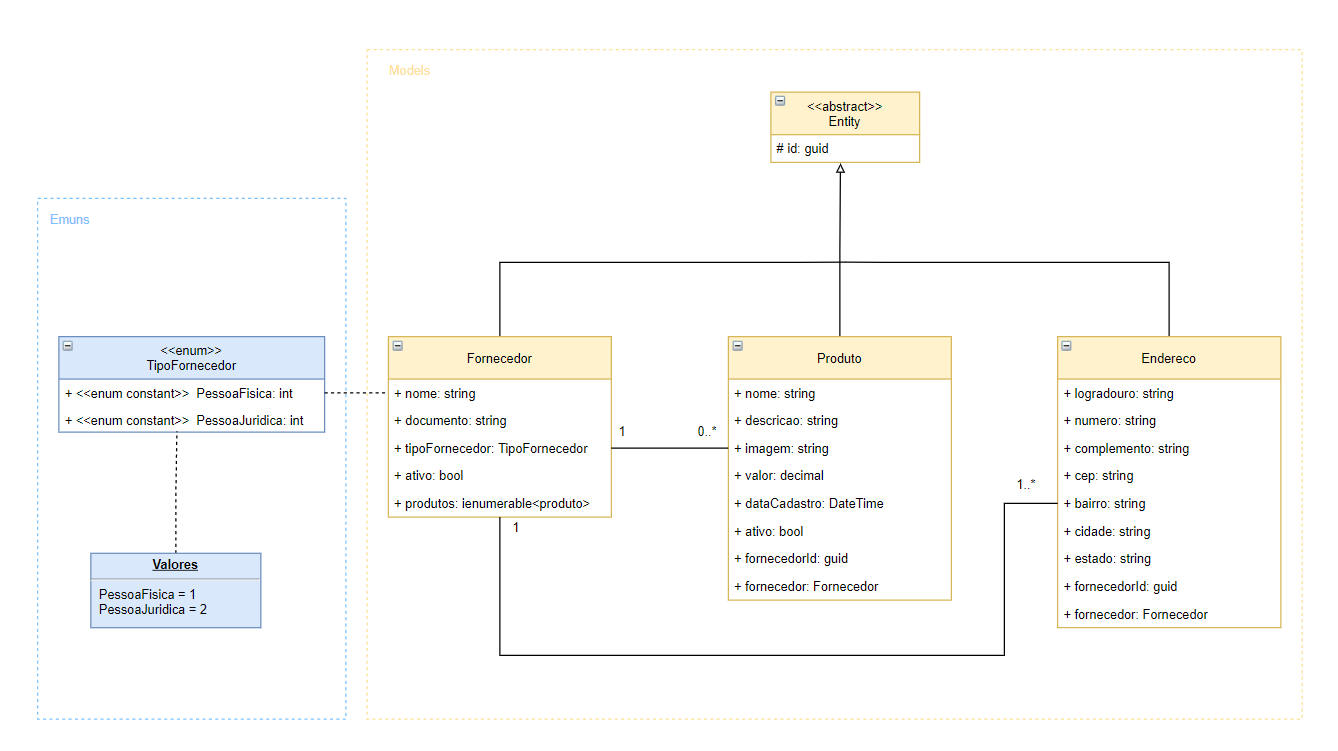
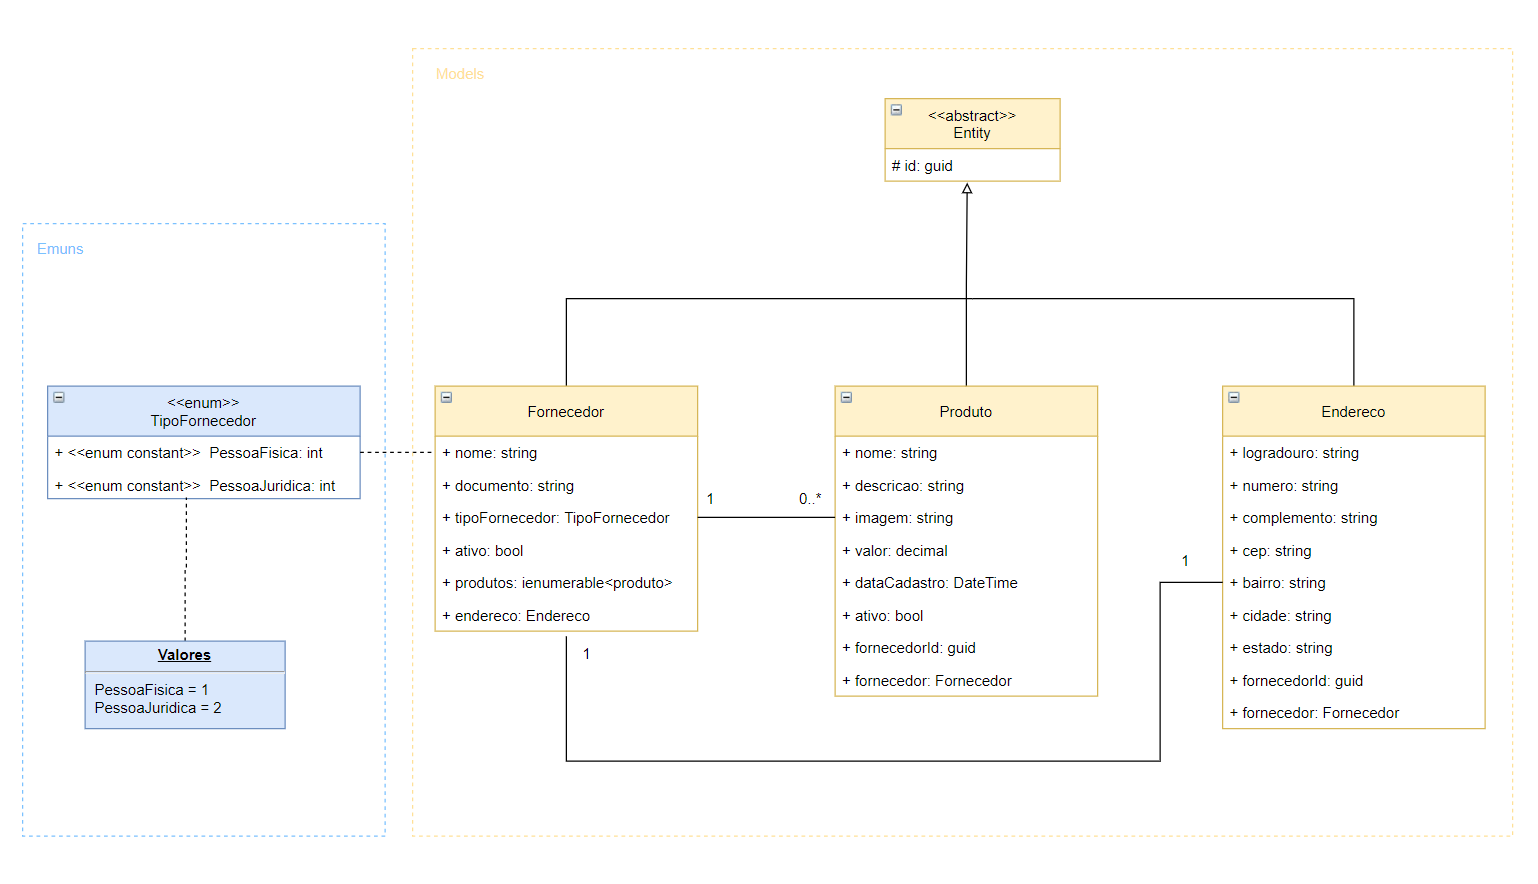
Mapeando as Entidades com FluentAPI

diff --git a/src/CompleteApp.Data/Mappings/EnderecoMapping.cs b/src/CompleteApp.Data/Mappings/EnderecoMapping.cs
@@ -1,0 +1,43 @@
+using CompleteApp.Business.Models;
+using Microsoft.EntityFrameworkCore;
+using Microsoft.EntityFrameworkCore.Metadata.Builders;
+
+namespace CompleteApp.Data.Mappings
+{
+    public class EnderecoMapping : IEntityTypeConfiguration<Endereco>
+    {
+        public void Configure(EntityTypeBuilder<Endereco> builder)
+        {
+            builder.HasKey(e => e.Id);
+
+            builder.Property(e => e.Logradouro)
+                .IsRequired()
+                .HasColumnType("varchar(200)");
+
+            builder.Property(e => e.Numero)
+                .IsRequired()
+                .HasColumnType("varchar(50)");
+
+            builder.Property(e => e.Cep)
+                .IsRequired()
+                .HasColumnType("varchar(8)");
+
+            builder.Property(e => e.Complemento)
+                .HasColumnType("varchar(200)");
+
+            builder.Property(e => e.Bairro)
+                .IsRequired()
+                .HasColumnType("varchar(100)");
+
+            builder.Property(e => e.Cidade)
+               .IsRequired()
+               .HasColumnType("varchar(100)");
+
+            builder.Property(e => e.Estado)
+               .IsRequired()
+               .HasColumnType("varchar(50)");
+
+            builder.ToTable("Enderecos");
+        }
+    }
+}

diff --git a/src/CompleteApp.Data/Mappings/FornecedorMapping.cs b/src/CompleteApp.Data/Mappings/FornecedorMapping.cs
@@ -1,0 +1,33 @@
+using CompleteApp.Business.Models;
+using Microsoft.EntityFrameworkCore;
+using Microsoft.EntityFrameworkCore.Metadata.Builders;
+
+namespace CompleteApp.Data.Mappings
+{
+    public class FornecedorMapping : IEntityTypeConfiguration<Fornecedor>
+    {
+        public void Configure(EntityTypeBuilder<Fornecedor> builder)
+        {
+            builder.HasKey(f => f.Id);
+
+            builder.Property(f => f.Nome)
+                .IsRequired()
+                .HasColumnType("varchar(200)");
+
+            builder.Property(f => f.Documento)
+                .IsRequired()
+                .HasColumnType("varchar(14)");
+
+            // 1 : 1 => Fornecedor : Endereco
+            builder.HasOne(f => f.Endereco)
+                .WithOne(e => e.Fornecedor);
+
+            // 1 : N => Fornecedor : Produtos
+            builder.HasMany(f => f.Produtos)
+                .WithOne(p => p.Fornecedor)
+                .HasForeignKey(p => p.FornecedorId);
+
+            builder.ToTable("Fornecedores");
+        }
+    }
+}

diff --git a/src/CompleteApp.Data/Mappings/ProdutoMapping.cs b/src/CompleteApp.Data/Mappings/ProdutoMapping.cs
@@ -1,0 +1,28 @@
+using CompleteApp.Business.Models;
+using Microsoft.EntityFrameworkCore;
+using Microsoft.EntityFrameworkCore.Metadata.Builders;
+
+namespace CompleteApp.Data.Mappings
+{
+    public class ProdutoMapping : IEntityTypeConfiguration<Produto>
+    {
+        public void Configure(EntityTypeBuilder<Produto> builder)
+        {
+            builder.HasKey(p => p.Id);
+
+            builder.Property(p => p.Nome)
+                .IsRequired()
+                .HasColumnType("varchar(200)");
+
+            builder.Property(p => p.Descricao)
+                .IsRequired()
+                .HasColumnType("varchar(1000)");
+
+            builder.Property(p => p.Imagem)
+                .IsRequired()
+                .HasColumnType("varchar(100)");
+
+            builder.ToTable("Produtos");
+        }
+    }
+}

diff --git a/src/CompleteApp.Business/Models/Fornecedor.cs b/src/CompleteApp.Business/Models/Fornecedor.cs
@@ -8,6 +8,7 @@ namespace CompleteApp.Business.Models
         public string Nome { get; set; }
         public string Documento { get; set; }
         public TipoFornecedor TipoFornecedor { get; set; }
+        public Endereco Endereco { get; set; }
         public bool Ativo { get; set; }
         public IEnumerable<Produto> Produtos { get; set; }
     }
